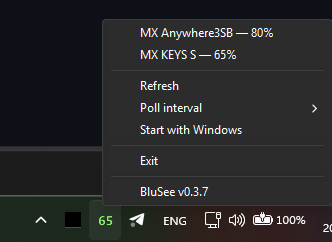
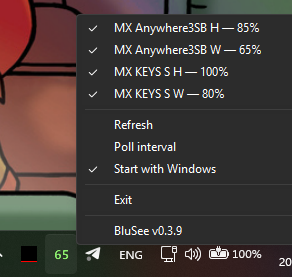
feat: checkmark connected devices in tray menu (v0.3.9)
Devices with a live reading this poll get a menu checkmark; asleep, other-host
or cached entries stay unchecked. README screenshot updated.

diff --git a/src/BluSee/Tray/TrayApp.cs b/src/BluSee/Tray/TrayApp.cs
@@ -101,8 +101,10 @@ public sealed partial class TrayApp : IDisposable
             }
             else
             {
+                // Checkmark = connected right now (live reading); unchecked = asleep, on another
+                // host, or a cached value.
                 foreach (var d in devices)
-                    Native.AppendMenuW(menu, Native.MF_STRING, 0, d.Display);
+                    Native.AppendMenuW(menu, Native.MF_STRING | (d.IsConnected ? Native.MF_CHECKED : 0), 0, d.Display);
             }
 
             Native.AppendMenuW(menu, Native.MF_SEPARATOR, 0, null);

diff --git a/README.md b/README.md
@@ -32,7 +32,7 @@ The app remembers the last reading of each device, so a sleeping device still sh
 
 1. Put `blusee.exe` in any folder where you can write files. The app is portable and keeps all its files next to the exe.
 2. Run the exe. The icon appears in the notification area.
-3. Right-click the icon for the device list, Refresh, Poll interval and Start with Windows. A low battery shows a balloon warning.
+3. Right-click the icon for the device list (a checkmark marks devices connected right now), Refresh, Poll interval and Start with Windows. A low battery shows a balloon warning.
 
 ### Files next to the exe
 
